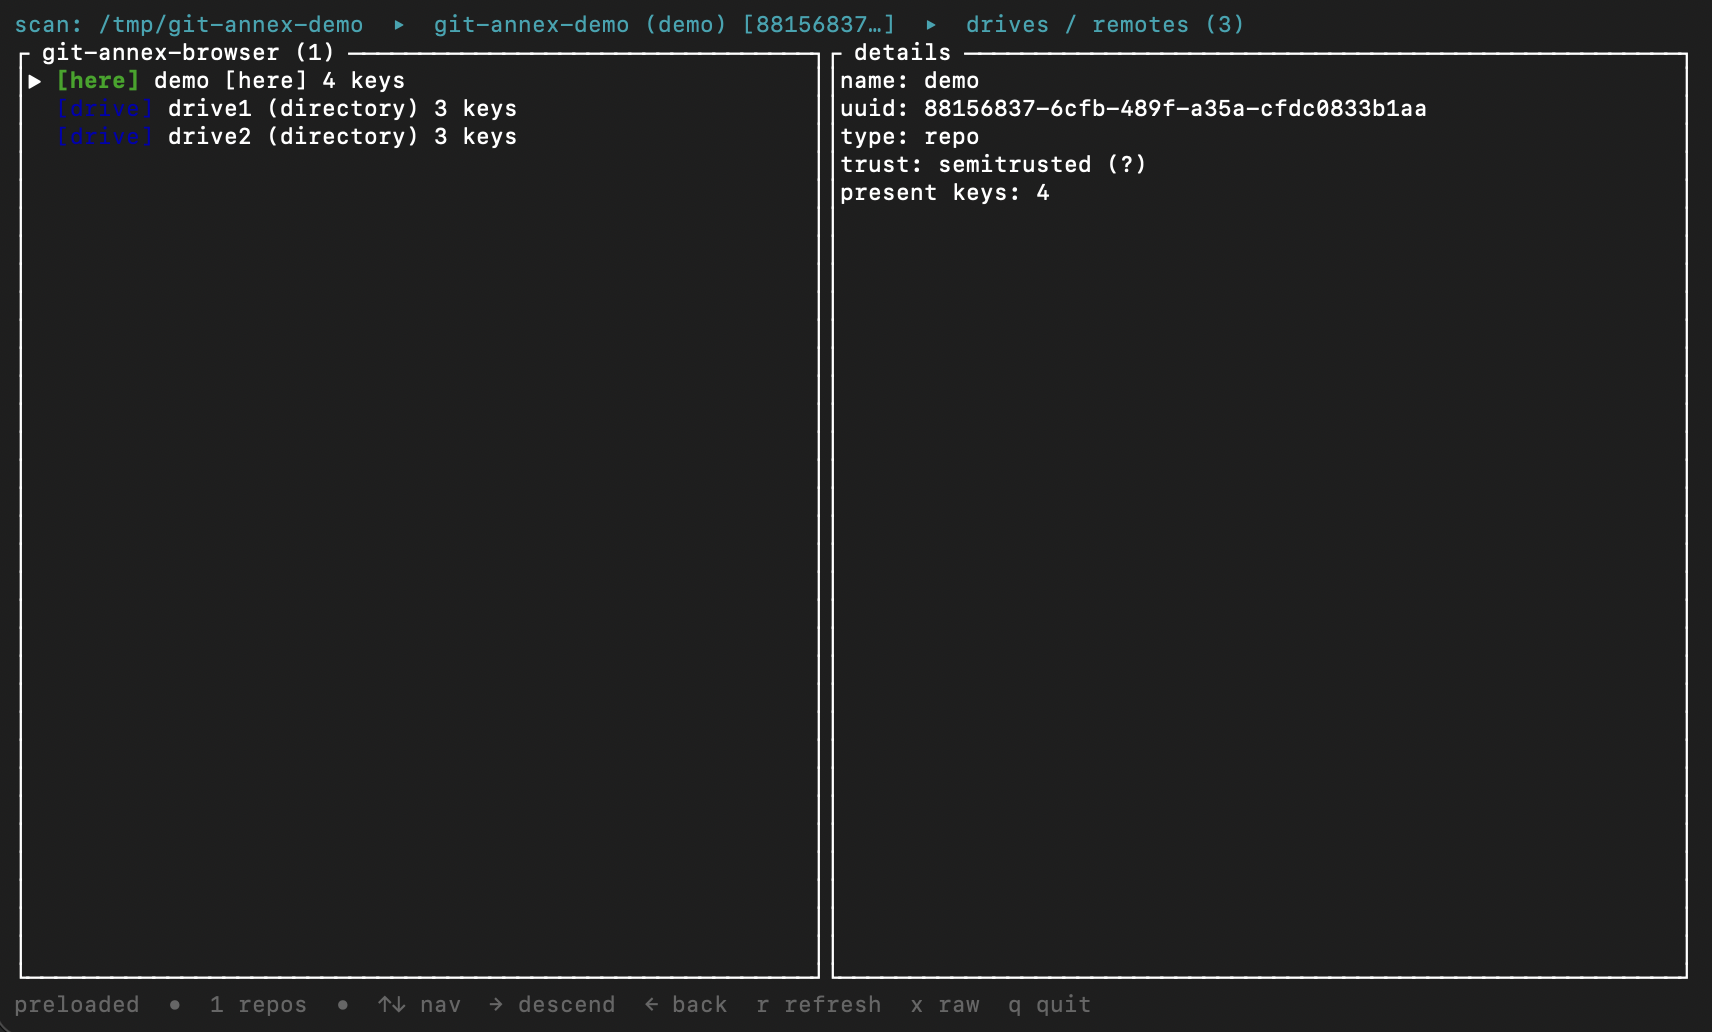
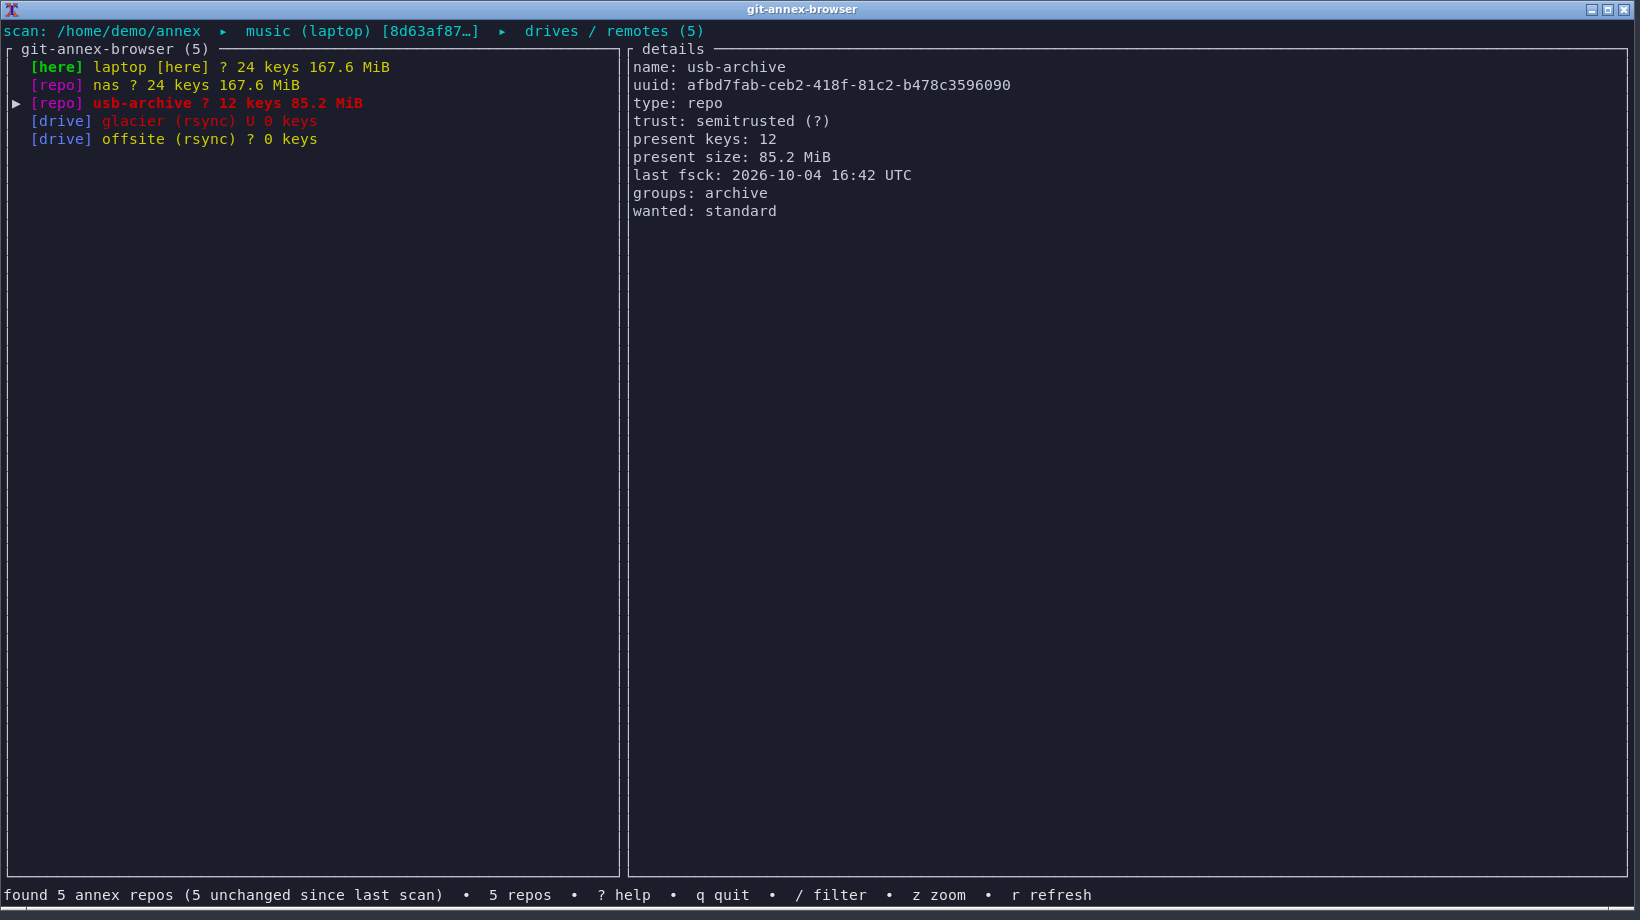
Refresh README screenshots from a demo annex collection.
Captured on Xvfb with example photos/videos/documents repos, a
directory remote, and an rclone special remote so the global report
and drive list match the current UI.

Changed region(s): [[0.0, 0.0, 1.0, 1.0]]

diff --git a/README.md b/README.md
@@ -2,9 +2,11 @@
 
 [![License: MIT/Apache-2.0](https://img.shields.io/badge/license-MIT%2FApache--2.0-blue.svg)](LICENSE)
 
-![Main view](assets/main-view.png)
+![Global report](assets/main-view.png)
 
 ![Drives view](assets/drives-view.png)
+
+![Files view](assets/files-view.png)
 
 A [Crossterm](https://github.com/crossterm-rs/crossterm) +
 [Ratatui](https://ratatui.rs) terminal UI for exploring git-annex repositories.
